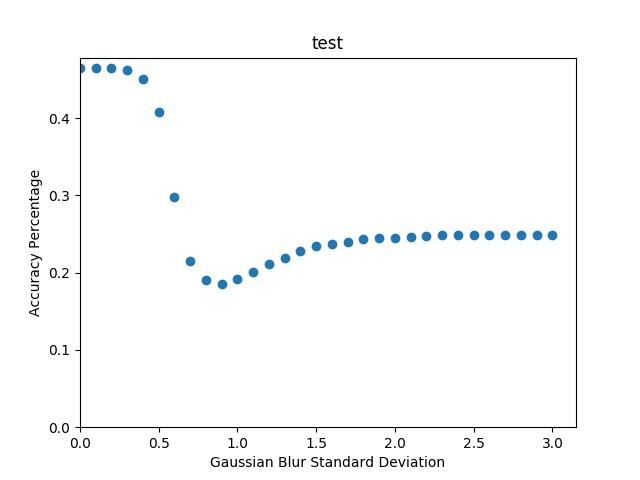
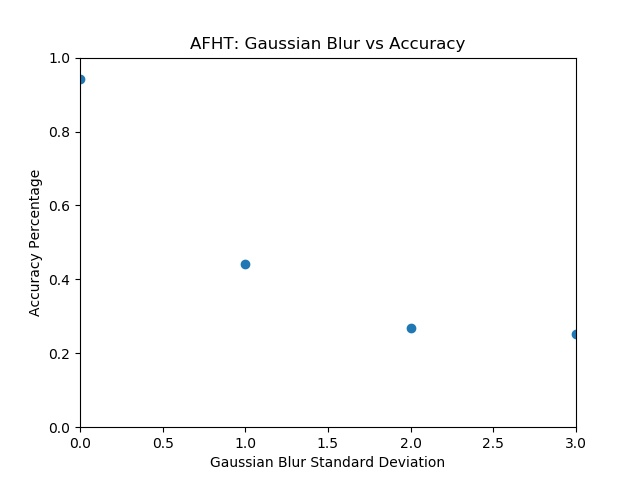
img trans

diff --git a/predictcifar10.py b/predictcifar10.py
@@ -12,11 +12,11 @@ import matplotlib.pyplot as plt
 # Data information
 total_images = 2000 # NOT USED
 num_classes = 10
-model = load_model('saved_models/keras_cifar10_acdt_model.h5')
+model = load_model('saved_models/keras_cifar10_afht_model.h5')
 
 # Gaussian blur settings
 std_dev = 0
-std_dev_delta = 0.1
+std_dev_delta = 1
 std_dev_max = 3
 
 # Plot data arrays
@@ -57,10 +57,10 @@ for x in np.arange(std_dev, std_dev_max+std_dev_delta, std_dev_delta):
     accuracy_arr.append(scores[1]) # Adds accuracy
 
 df = pd.DataFrame({'x': std_dev_arr, 'y': accuracy_arr})
-plt.title('test')
+plt.title('AFHT: Gaussian Blur vs Accuracy')
 plt.plot('x', 'y', data=df, linestyle='', marker='o')
-plt.gca().set_xlim(left=0)
-plt.gca().set_ylim(bottom=0)
+plt.gca().set_xlim(left=0, right=3)
+plt.gca().set_ylim(bottom=0, top=1)
 plt.xlabel('Gaussian Blur Standard Deviation')
 plt.ylabel('Accuracy Percentage')
-plt.savefig('images/gauss_cifar10_acdt_graph.jpg')
+plt.savefig('images/gauss_cifar10_afht_graph.jpg')
